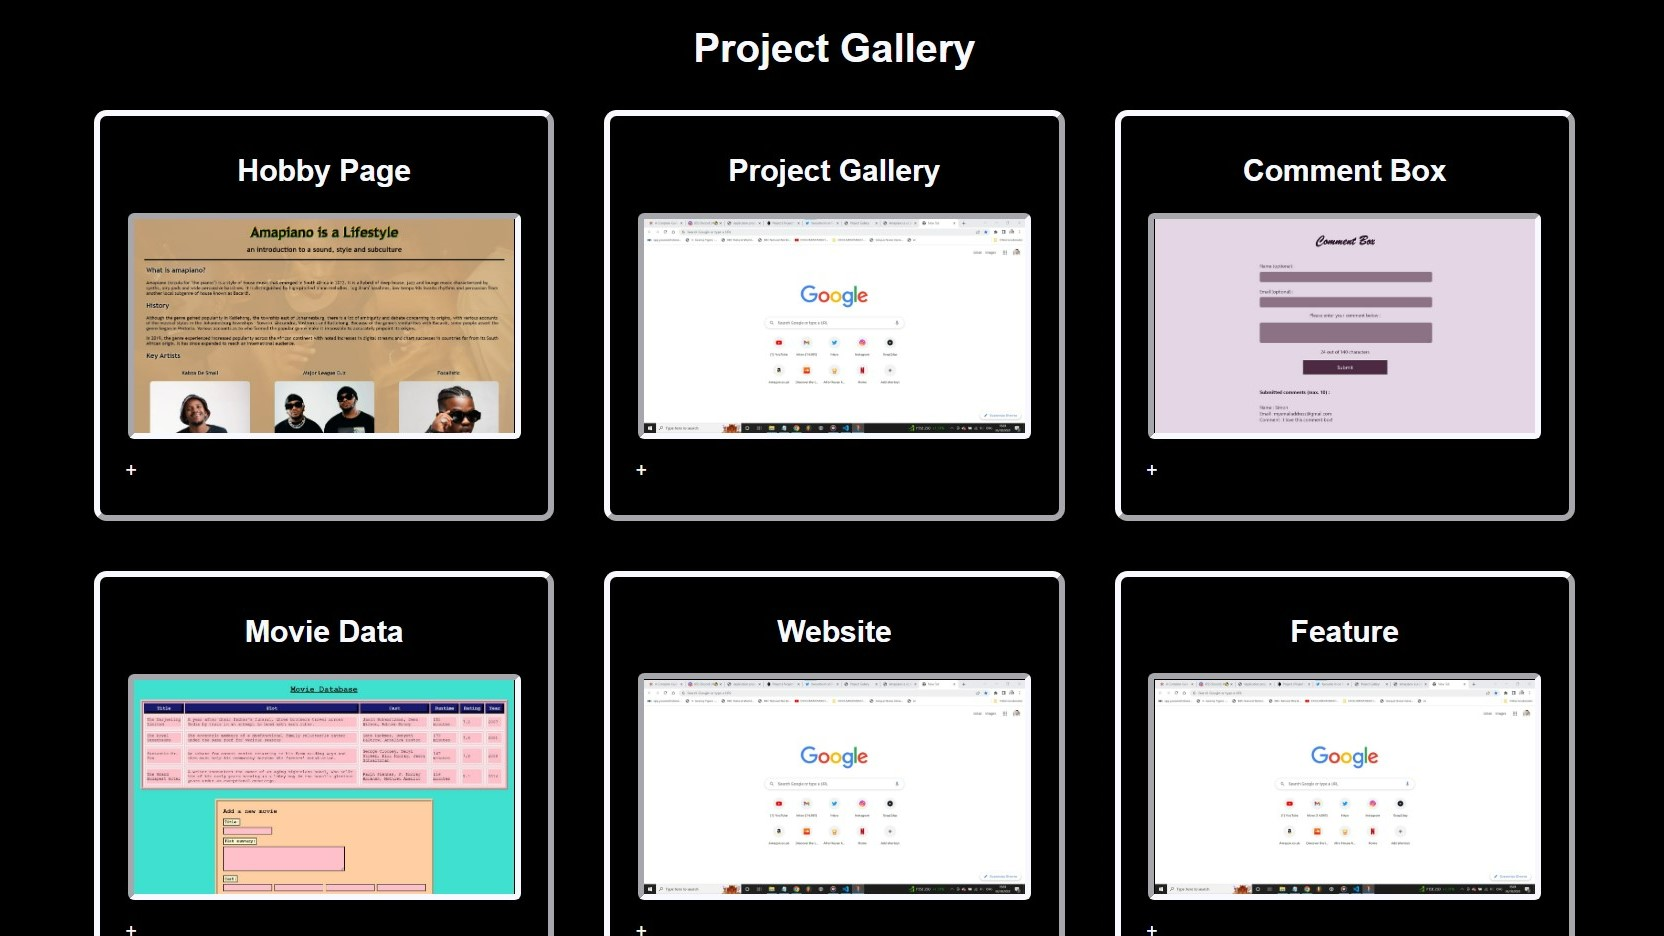
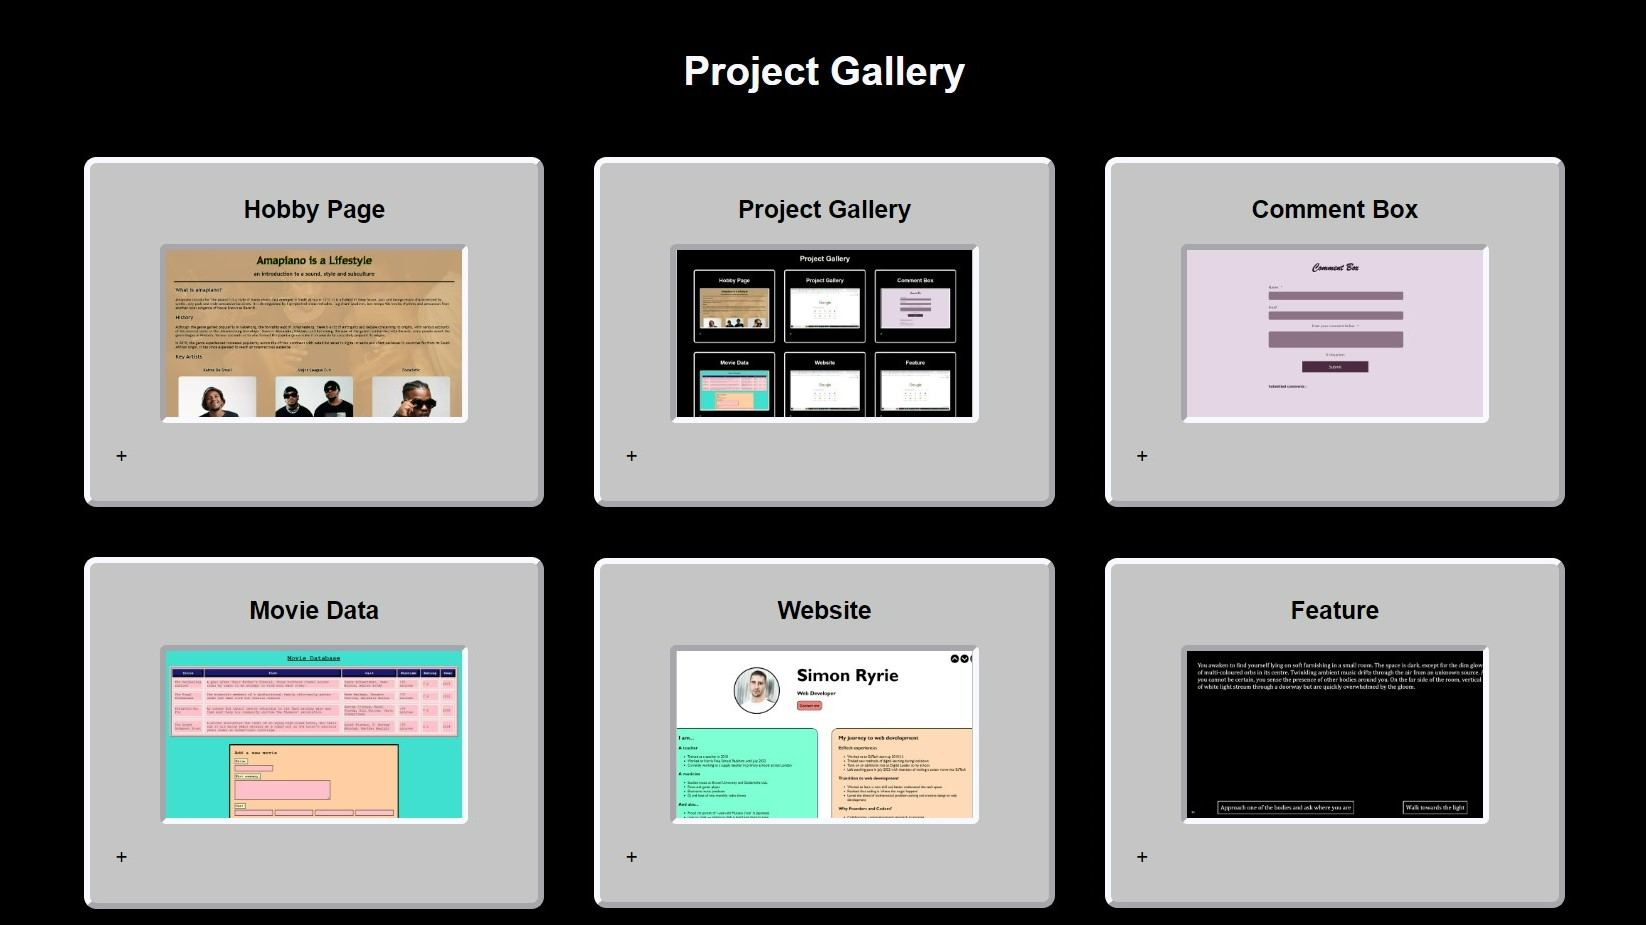
Project Gallery finalised
CSS edits
Final images of each feature
Description added for final two projects
Show/hide functions fixed

diff --git a/projectgallery/index.html b/projectgallery/index.html
@@ -17,43 +17,35 @@
                 <img src="hobbypage.jpg" id="hobbyImage" class="hobby">
                 <p onclick="toggleButtonOne(event)" class="button" id="hobbyButton">+</p>
                 <div class="description" id="hobbyDescription">
-                <p>This was my first project and the first web page I have ever built! I based it on amapiano, a style of music which I love from South Africa. I wanted my page to express the personality of the genre through a modern, clean and uniform aesthetic which also included bursts of colour and warmth. To achieve this, I used: </p>
+                <p>This was my first project and the first web page I have ever built. I based it on amapiano, a style of music which I love from South Africa. I wanted my page to express the personality of the genre through a modern, clean and uniform aesthetic which also included bursts of colour and warmth. To achieve this, I used: </p>
                 <ul>
                 <li>sans serif font</li>
                 <li>natural brown semi-transparent background colour for the page's main body</li>
                 <li>background image of an amapiano dancefloor</li>
                 <li>colours of the South African flag as a text shadow for the title</li>
-                <li>similarly posed press photos of key artists, including some brightly coloured outfits!</li>
+                <li>similarly posed press photos of key artists, including some brightly coloured outfits</li>
                 </ul>
                 <p>
                 Aside from the HTML and CSS basics needed to create the page, the most important learning that I did for this project was how to use CSS Flexbox. Flexbox allowed me to put the 'cards' for each artist into a flexible and aesthetically pleasing arrangement that would adjust to fit any screen size without content overflowing or being cut off. Finally, I used javascript and DOM manipulation to generate and display the day's date in the footer.</p>
                 </p>
                 </div>
                 <script>
-                    function toggleButtonOne(e) {
-                    console.log(e)
-                    // try 'closest' or 'this'
-                    //let parent = event.parentElement;
-                    //console.log(parent)
+                    let descriptionOne = document.getElementById("hobbyDescription");
+                    let buttonOne = document.getElementById("hobbyButton")
+                    descriptionOne.style.display = "none "
+                    function toggleButtonOne() {
+                        if (descriptionOne.style.display === "none") {
+                        descriptionOne.style.display = "block";
+                        buttonOne.innerHTML = "-";
+                        document.getElementById("hobbyCard").style.width = "86%";
+                        document.getElementById("hobbyCard").scrollIntoView();
+                        } 
+                        else {
+                        descriptionOne.style.display = "none";
+                        buttonOne.innerHTML = "+";
+                        document.getElementById("hobbyCard").style.width = "25%";
+                        }
                     }
-                    
-                    //let descriptionOne = document.getElementById("hobbyDescription");
-                    //let buttonOne = document.getElementById("hobbyButton")
-                    //descriptionOne.style.display = "none"
-                    //function toggleButtonOne(e) {
-                    //    console.log(e)
-                    //    if (descriptionOne.style.display === "none") {
-                    //    descriptionOne.style.display = "block";
-                    //    buttonOne.innerHTML = "-";
-                    //    document.getElementById("hobbyCard").style.width = "86%";
-                    //    document.getElementById("hobbyCard").scrollIntoView();
-                    //    } 
-                    //    else {
-                    //    descriptionOne.style.display = "none";
-                    //    buttonOne.innerHTML = "+";
-                    //    document.getElementById("hobbyCard").style.width = "25%";
-                    //    }
-                    //}
                 </script>
             </figure>
             <figure id="galleryCard">
@@ -61,7 +53,7 @@
                 <img src="projectgallery.jpg">
                 <p onclick="toggleButtonTwo()" class="button" id="galleryButton">+</p>
                 <div class="description" id="galleryDescription">
-                <p>I completed this project gallery after my Comment Box and Movie Data pages as I was keen to learn more about JavaScript and had used Flexbox in my Hobby Page already. To deepen my learning about Flexbox, I played a game called Flexbox Zombies.</p>
+                <p>I completed this project gallery after my Comment Box and Movie Data pages as I was keen to learn more about JavaScript and had used Flexbox in my Hobby Page already. To deepen my learning about Flexbox, I played a game called Flexbox Zombies. I decided on a monochrome colour scheme in order to highlight the colours in the images of each project.</p>
                 <p>The aims for this project were to:</p>
                 <ul>
                     <li>Have a section or card for each project</li>
@@ -136,7 +128,7 @@
                         <li>Allow the user to affect the display of the data by interacting with the webpage</li>
                         <li>Allow the user to update the data stored in the object by interacting with the webpage</li>
                     </ul>
-                    <p>I broke down this project into steps. First, I extracted the data from the JavaScript object and rendered it into a table using DOM manipulation. I chose to display the data in a table as this would allow the user to easily manipulate the data. Next, I added a form for the user to add additional films to the database, including checks to ensure that the data was in the correct format. Finally, I added a sorting function to allow the user to sort the table's data by title, plot, cast, runtime, rating or year. If I have time, I would like to return to this project and add additional functionality to allow the user to edit or delete data entries.</p>
+                    <p>I broke down this project into steps. First, I extracted the data from the JavaScript object and rendered it into a table using DOM manipulation. I chose to display the data in a table as this would allow the user to easily manipulate the data. Next, I added a form for the user to add additional films to the database, including checks to ensure that the data was in the correct format. Finally, I added a sorting function to allow the user to sort the table's data by title, plot, cast, runtime, rating or year. With more time, I would like to return to this project and add additional functionality to allow the user to edit or delete data entries.</p>
                     <p>Noting that the four movies in movieData were directed by Wes Anderson, I styled the page in line with the distinctive aesthetic of his films e.g. the table reflects the design of the titular building of 'The Grand Budapest Hotel'. I chose Courier font throughout the page as this is industry-standard font for screenplays.</p>
                 </div>
                 <script>
@@ -160,9 +152,10 @@
             </figure>
             <figure id="websiteCard">
                 <h2>Website</h2>
-                <img src="placeholder.jpg">
+                <img src="website.JPG">
                 <p onclick="toggleButtonFive()"class="button" id="websiteButton">+</p>
-                <p class="description" id="websiteDescription">This is a description of my project. </p>
+                <p class="description" id="websiteDescription">For this project, I created a personal website to showcase my application and the progress I have made. The visual design of this project was especially important to me and I looked at examples of similar portfolio websites for inspiration. I used CSS grid layout for the first time and @keyframes animations on my links buttons to make the website feel more dynamic. For my JavaScript feature, I added buttons to increase/decrease the font sizes across the page, which could provide greater accessibility to some users. I used an inline frame element to embed my feature within the page.
+                </p>
                 <script>
                     let descriptionFive = document.getElementById("websiteDescription");
                     let buttonFive = document.getElementById("websiteButton");
@@ -184,9 +177,32 @@
             </figure>
             <figure id="featureCard">
                 <h2>Feature</h2>
-                <img src="placeholder.jpg">
+                <img src="feature.jpg">
                 <p onclick="toggleButtonSix()" class="button" id="featureButton">+</p>
-                <p class="description" id="featureDescription">This is a description of my project. </p>
+                <div class="description" id="featureDescription">
+                    
+                <p>My feature is a narrative and audio based choose-your-own-adventure-style game inspired by 2019 RPG Disco Elysium.
+                </p>
+                <p>I have a long-standing interest in game design, probably more than I do in playing games! As I was learning about JavaScript, I found myself drawn to its potential applications in designing games.
+                </p>    
+                <p>BLACKOUT is the culmination of my initial explorations. Some of my new learning for this project included:
+                </p>
+                <ul>
+                    <li>setInterval and setTimeout to delay Javascript events e.g. making text appear letter by letter</li>
+                    <li>mousemove and touchmove event listeners to track cursor movement, used for the 'torch' effect on the welcome menu</li>
+                    <li>Addition of audio using the HTML audio element, with audio source and playback controlled by JavaScript</li>
+                </ul>
+                <p>I also consolidated my previous learning by using:
+                <ul>
+                    <li>Math.floor and Math.random to create a random name generator</li>
+                    <li>JavaScript objects to store each scenario's key information</li>
+                    <li>Extensive DOM manipulation to display each scenario's text, buttons and audio</li>
+                    <li>Arrays to track the player's progress and store important information</li>
+                </ul>
+                <p>                   
+                With more time, I would like to add more visual elements to the game and greater interactivity, for example allowing the player to create a character class whose chosen skills and statistics affect the outcomes of scenarios.
+                </p>
+                </div>
                 <script>
                     let descriptionSix = document.getElementById("featureDescription");
                     let buttonSix = document.getElementById("featureButton");

diff --git a/projectgallery/styles.css b/projectgallery/styles.css
@@ -6,6 +6,7 @@ body {
 
 header {
     text-align: center;
+    margin: 40px;
 }
 
 .gallery {
@@ -20,16 +21,20 @@ header {
 
 figure {
     margin: 0px 20px 40px 20px;
+    background-color: rgb(197, 197, 197);
     border: outset 5px ghostwhite;
+    color: black;
     border-radius: 10px;
     padding: 10px;
     width: 25%;
+    min-width: 300px;
     height: 25%;
+    min-height: 200px;
 }
 
 h2 {
     text-align: center;
-    font-size:calc(8px + 1.2vw);
+    font-size:calc(12px + 0.5vw);
 }
 
 img {
